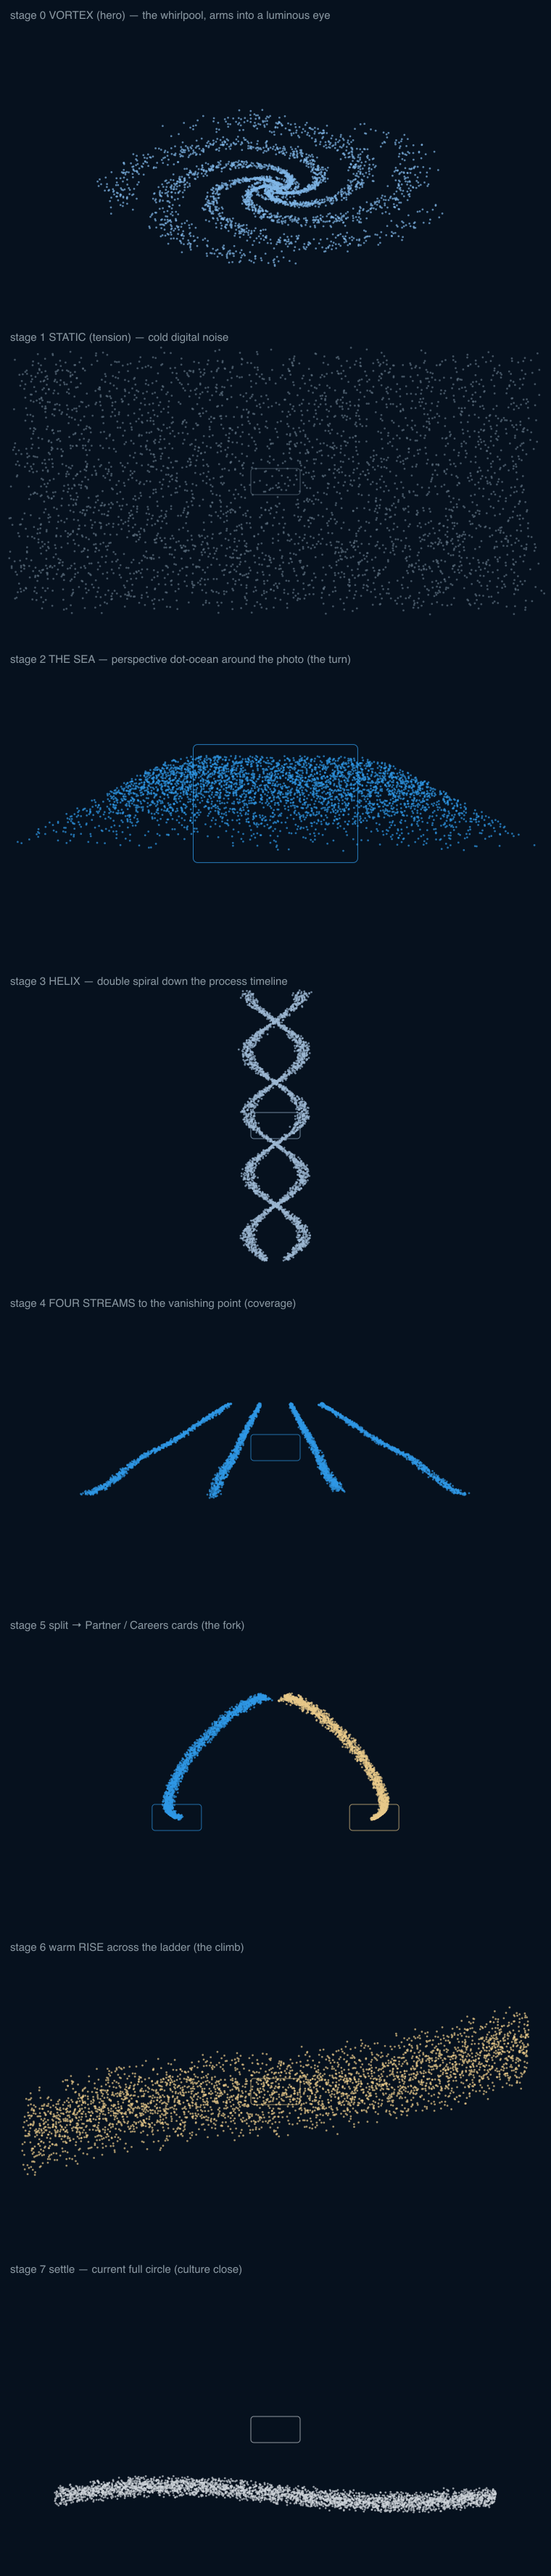
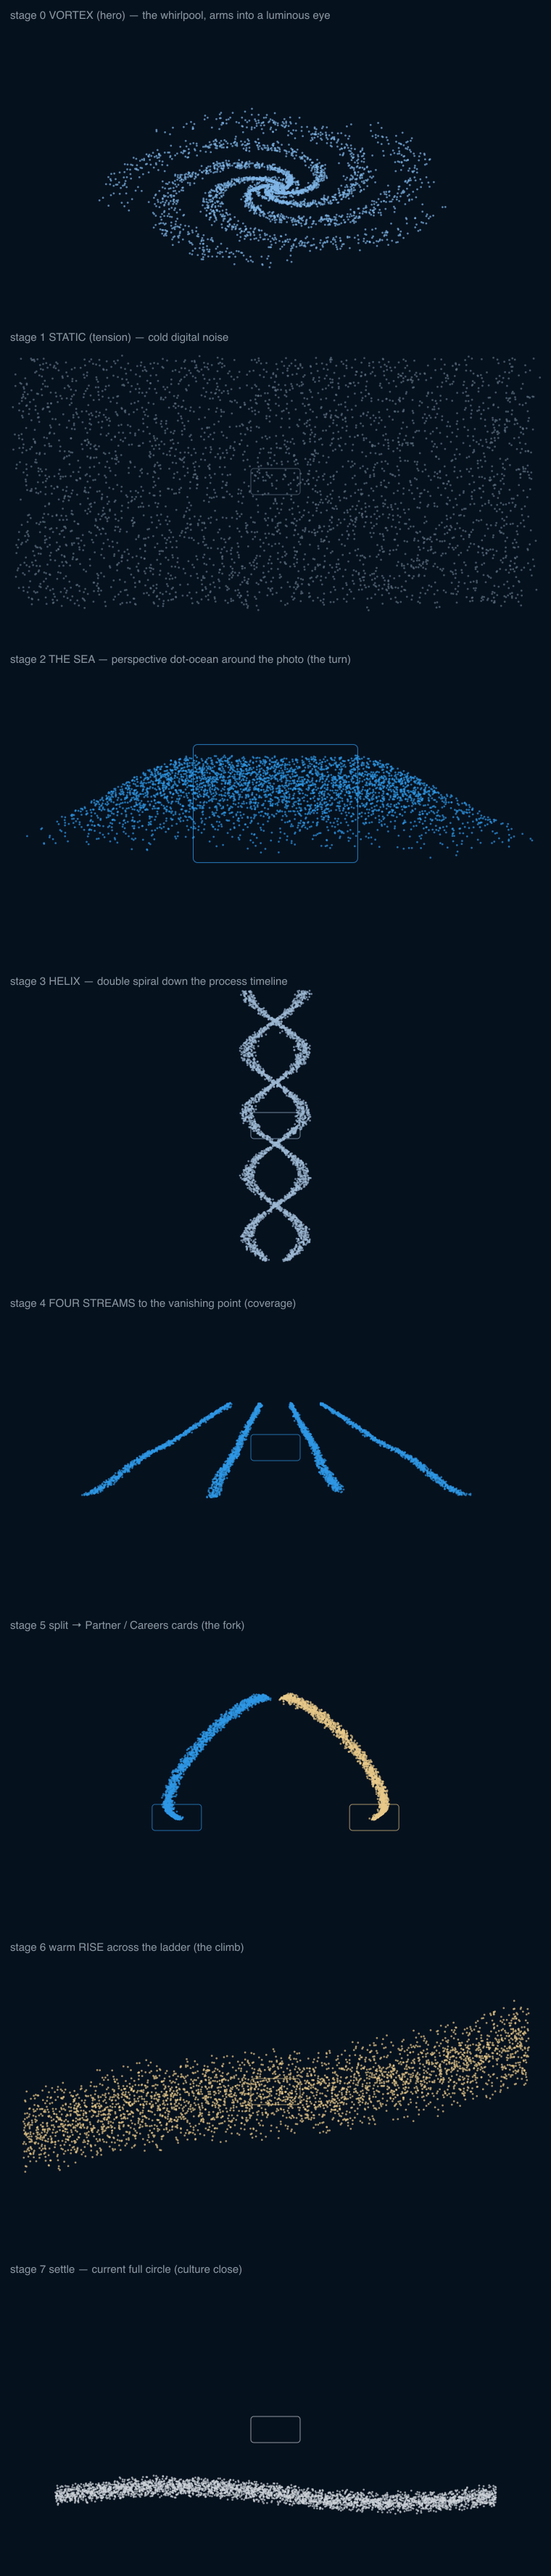
Static shimmers at 60fps: kill the global 6Hz snap clock
The 'choppy' report was the tension act's design, not jank: frame-delta
analysis of the recording showed a metronomic ~6.5Hz page update that
matched fNoise's floor(uTime*6) snap clock — every particle stepping on
one shared clock reads as lag. The static now uses continuous
micro-drift plus per-particle 14Hz alpha flicker, both on random phases
(no global pulse), gated to the tension stage. Also banked: anchor rect
reads gated by stage proximity (9 -> ~3 getBoundingClientRect/frame)
and desktop DPR cap 1.75 -> 1.6.

diff --git a/src/components/home/GlobalCurrent.tsx b/src/components/home/GlobalCurrent.tsx
@@ -62,16 +62,18 @@ const VERT = /* glsl */ `
     return vec3(disk.x, disk.y * 0.46 - 0.18, depth);
   }
   // Tension: the one moment the Current is NOT water — cold digital STATIC.
-  // A loose full-width field of points that snap position in hard clocked steps
-  // (screen noise, staccato) around the tension copy. Resolves back into the
-  // flowing current at the next stage — chaos organizing into connection.
+  // A loose full-width field around the tension copy. IMPORTANT: the shimmer is
+  // CONTINUOUS with per-particle random phases — an earlier version snapped all
+  // particles on one global 6Hz clock and the user read the whole page as
+  // "choppy". Nothing here may step on a shared clock; the static texture comes
+  // from decorrelated micro-drift plus per-particle alpha flicker (see main()).
   vec3 fNoise() {
     vec2 f = uAnchorF;
     float gx = (fract(aRand * 13.73) - 0.5) * 2.0 * uAspect * 0.94;
     float gy = f.y + (fract(aRand2 * 7.31) - 0.5) * 1.55;
-    float tick = floor(uTime * 6.0) + floor(aRand * 4.0);
-    gx += (hash(tick + aRand * 91.7) - 0.5) * 0.15;
-    gy += (hash(tick + aRand2 * 57.3) - 0.5) * 0.15;
+    float ph = aRand * 6.2831 + aRand2 * 17.0;
+    gx += sin(uTime * 9.0 + ph) * 0.018 + sin(uTime * 2.3 + ph * 1.7) * 0.02;
+    gy += cos(uTime * 11.0 + ph) * 0.018 + cos(uTime * 2.9 + ph * 0.8) * 0.02;
     return vec3(gx, gy, (aRand2 - 0.5));
   }
   // Client: THE SEA — a perspective dot-ocean receding to a horizon just above
@@ -243,6 +245,11 @@ const VERT = /* glsl */ `
     // alpha floor raised: the recording showed the whole journey too faint — the
     // reference's dots are crisp and bright, density carries the drama.
     vAlpha = (0.72 + 0.28 * (0.5 + 0.5 * sin(aT * 12.0 + uTime))) * (1.0 + heroLift) * uFade * edge * dAlpha;
+    // TV-static flicker near the tension act: each particle blinks on its OWN
+    // clock (random phase), so the field shimmers at 60fps with no global pulse.
+    float staticGate = 1.0 - min(abs(uStage - 1.0), 1.0);
+    float flick = hash(floor(uTime * 14.0 + aRand * 97.0) + aRand2 * 31.0);
+    vAlpha *= mix(1.0, 0.35 + 0.9 * flick, staticGate);
   }
 `;
 
@@ -284,9 +291,10 @@ export function GlobalCurrent(_props: { targetRef: RefObject<HTMLElement | null>
     } catch {
       return;
     }
-    // Cap DPR harder on phones — additive blending is fill-rate bound, and the
-    // reference clip's whole point is that this stays smooth on mobile.
-    const DPR = Math.min(window.devicePixelRatio || 1, wide ? 1.75 : 1.5);
+    // Cap DPR — additive blending is fill-rate bound (the mobile bottleneck, and
+    // after the radiance pass the desktop one too); 1.6 is visually identical at
+    // arm's length and ~17% cheaper than 1.75 in raster area.
+    const DPR = Math.min(window.devicePixelRatio || 1, wide ? 1.6 : 1.5);
     renderer.setPixelRatio(DPR);
     renderer.setClearColor(0x000000, 0);
     Object.assign(renderer.domElement.style, { width: "100%", height: "100%", display: "block" });
@@ -380,6 +388,19 @@ export function GlobalCurrent(_props: { targetRef: RefObject<HTMLElement | null>
       out.set(ndcX * aspect, ndcY);
     };
 
+    // Each anchor's journey waypoint + the uniform its rect feeds. The render
+    // loop only reads rects for anchors near the live stage.
+    const ANCHOR_MAP = [
+      ["noise", 1, "uAnchorF", true],
+      ["client", 2, "uAnchorC", true],
+      ["process", 3, "uAnchorG", true],
+      ["coverage", 4, "uAnchorH", true],
+      ["partner", 5, "uAnchorA", false],
+      ["careers", 5, "uAnchorB", false],
+      ["talent", 6, "uAnchorD", true],
+      ["trust", 7, "uAnchorE", true],
+    ] as const;
+
     // Journey stage 0..7 from where each section sits on screen. Waypoints are the
     // scroll positions at which each section centres in the viewport, so stage (and
     // thus the formation) tracks the actual content rather than a guessed scroll-%.
@@ -432,19 +453,19 @@ export function GlobalCurrent(_props: { targetRef: RefObject<HTMLElement | null>
     const loop = () => {
       if (!running) return;
       uniforms.uTime.value = clock.getElapsedTime();
-      anchorWorld("partner", uniforms.uAnchorA.value);
-      anchorWorld("careers", uniforms.uAnchorB.value);
-      anchorWorld("client", uniforms.uAnchorC.value, true);
-      anchorWorld("talent", uniforms.uAnchorD.value, true);
-      anchorWorld("trust", uniforms.uAnchorE.value, true);
-      anchorWorld("noise", uniforms.uAnchorF.value, true);
-      anchorWorld("process", uniforms.uAnchorG.value, true);
-      anchorWorld("coverage", uniforms.uAnchorH.value, true);
       // __forceStage: optional dev override (0..7) to inspect any formation.
       const forced = (window as unknown as { __forceStage?: number }).__forceStage;
       const target = typeof forced === "number" ? forced : computeStage();
       stage.current += (target - stage.current) * 0.12;
       uniforms.uStage.value = stage.current;
+      // Only read the rects of anchors whose formation is near the current stage
+      // (stagger spreads a morph by ±0.4 at most): 9 getBoundingClientRect calls
+      // per frame → ~3, the layout-read cost the Phase-4 note predicted.
+      for (const [name, st, uni, centre] of ANCHOR_MAP) {
+        if (Math.abs(stage.current - st) < 1.35) {
+          anchorWorld(name, uniforms[uni].value, centre);
+        }
+      }
       // Near the bottom: first the white current BRAIDS into the blue+gold twist
       // (uTwist), then it hides behind the footer (uFade). Twist ramps up earlier
       // than the fade so you see the braid before it disappears.

diff --git a/HANDOFF.md b/HANDOFF.md
@@ -4,6 +4,26 @@ Continue in a new chat from here. Project root: `/Users/officemac/ACM/acm-site`.
 Run: `npm run dev` (or the Preview tool config `acm-site`) → http://localhost:3000.
 Build: `npm run build` (green as of this handoff). Typecheck: `npm run typecheck`.
 
+## Iteration 17 — "choppy" was the static's 6Hz clock, not jank (2026-07-07)
+
+Recording 4 (Documents/…7.59.14 PM.mov, 5.5s parked on the TENSION act):
+"this isnt smooth looks very choppy". Frame-delta analysis (tblend=difference →
+YAVG series) showed a METRONOMIC ~6.5Hz update — 8-10 frozen frames then one
+uniform jump — which exactly matches fNoise's designed `floor(uTime * 6.0)`
+snap clock. NOT a performance problem: every particle snapped on the SAME
+global 6Hz clock and the eye read the page as lagging. LESSON for this engine:
+never step anything on a shared clock; decorrelate per particle.
+FIXES: (1) fNoise rebuilt — continuous micro-drift with per-particle random
+phases; (2) TV-static feel moved to ALPHA: per-particle 14Hz flicker with
+random phase offsets, gated to stage 1 (`staticGate`), shimmers at 60fps with
+no global pulse. Plus two free perf wins while in there: (3) anchor
+getBoundingClientRect reads now gated by stage proximity via ANCHOR_MAP (9 →
+~3 reads/frame — the Phase-4 layout-read concern); (4) desktop DPR cap 1.75 →
+1.6 (~17% raster area). Verified: clean build, fresh server, hero frame good.
+If real scroll jank is still reported: test the PRODUCTION build first
+(`npm run build && npm start` — dev mode is materially slower), then consider
+COUNT 20k→16k desktop and carrier size cap before touching the look.
+
 ## Iteration 16 — dissolution morphs (recording 3, 2026-07-07)
 
 Recording 3 (7.34.56 PM): radiance FIXED — vortex strong, static visible, helix
